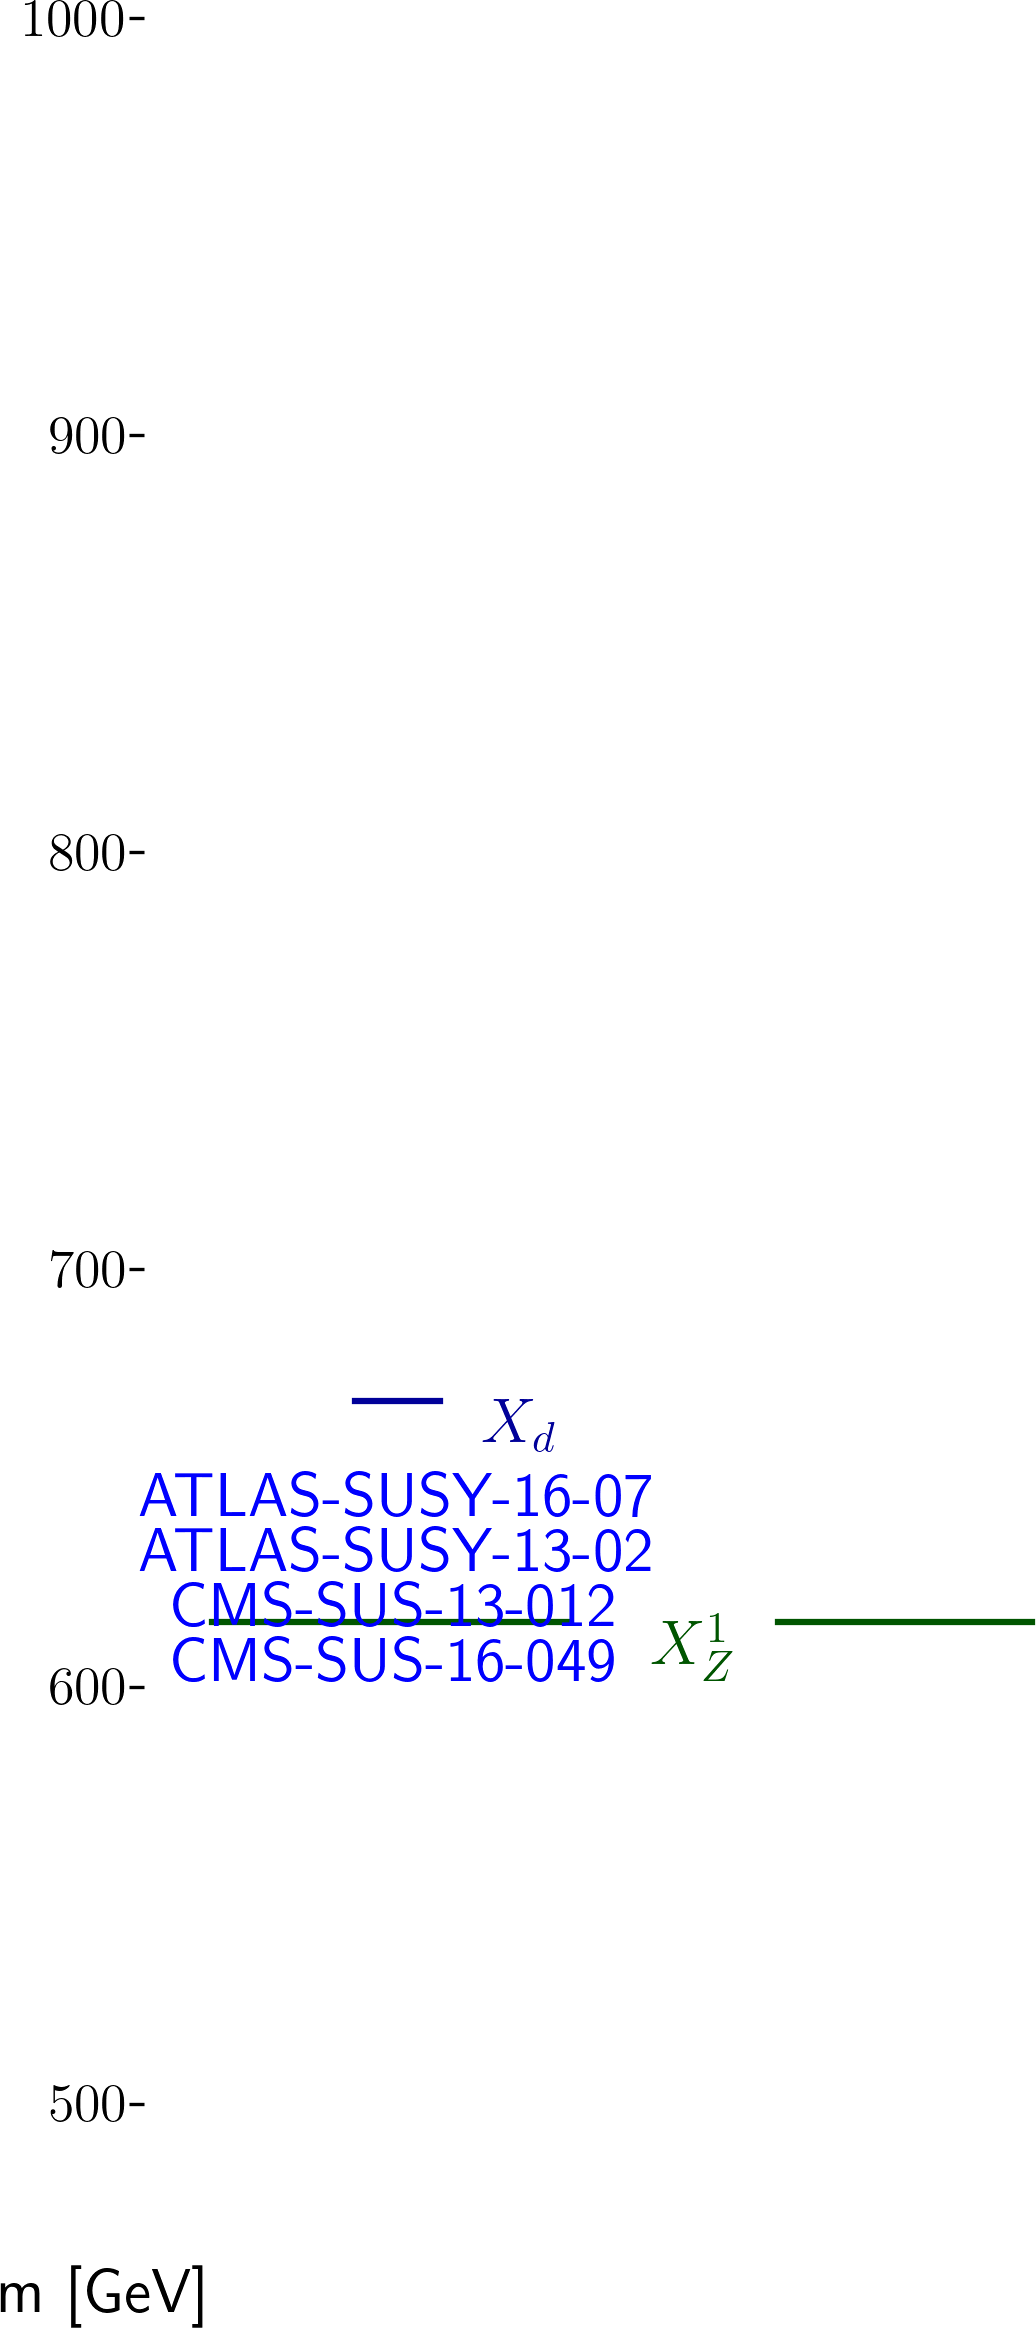
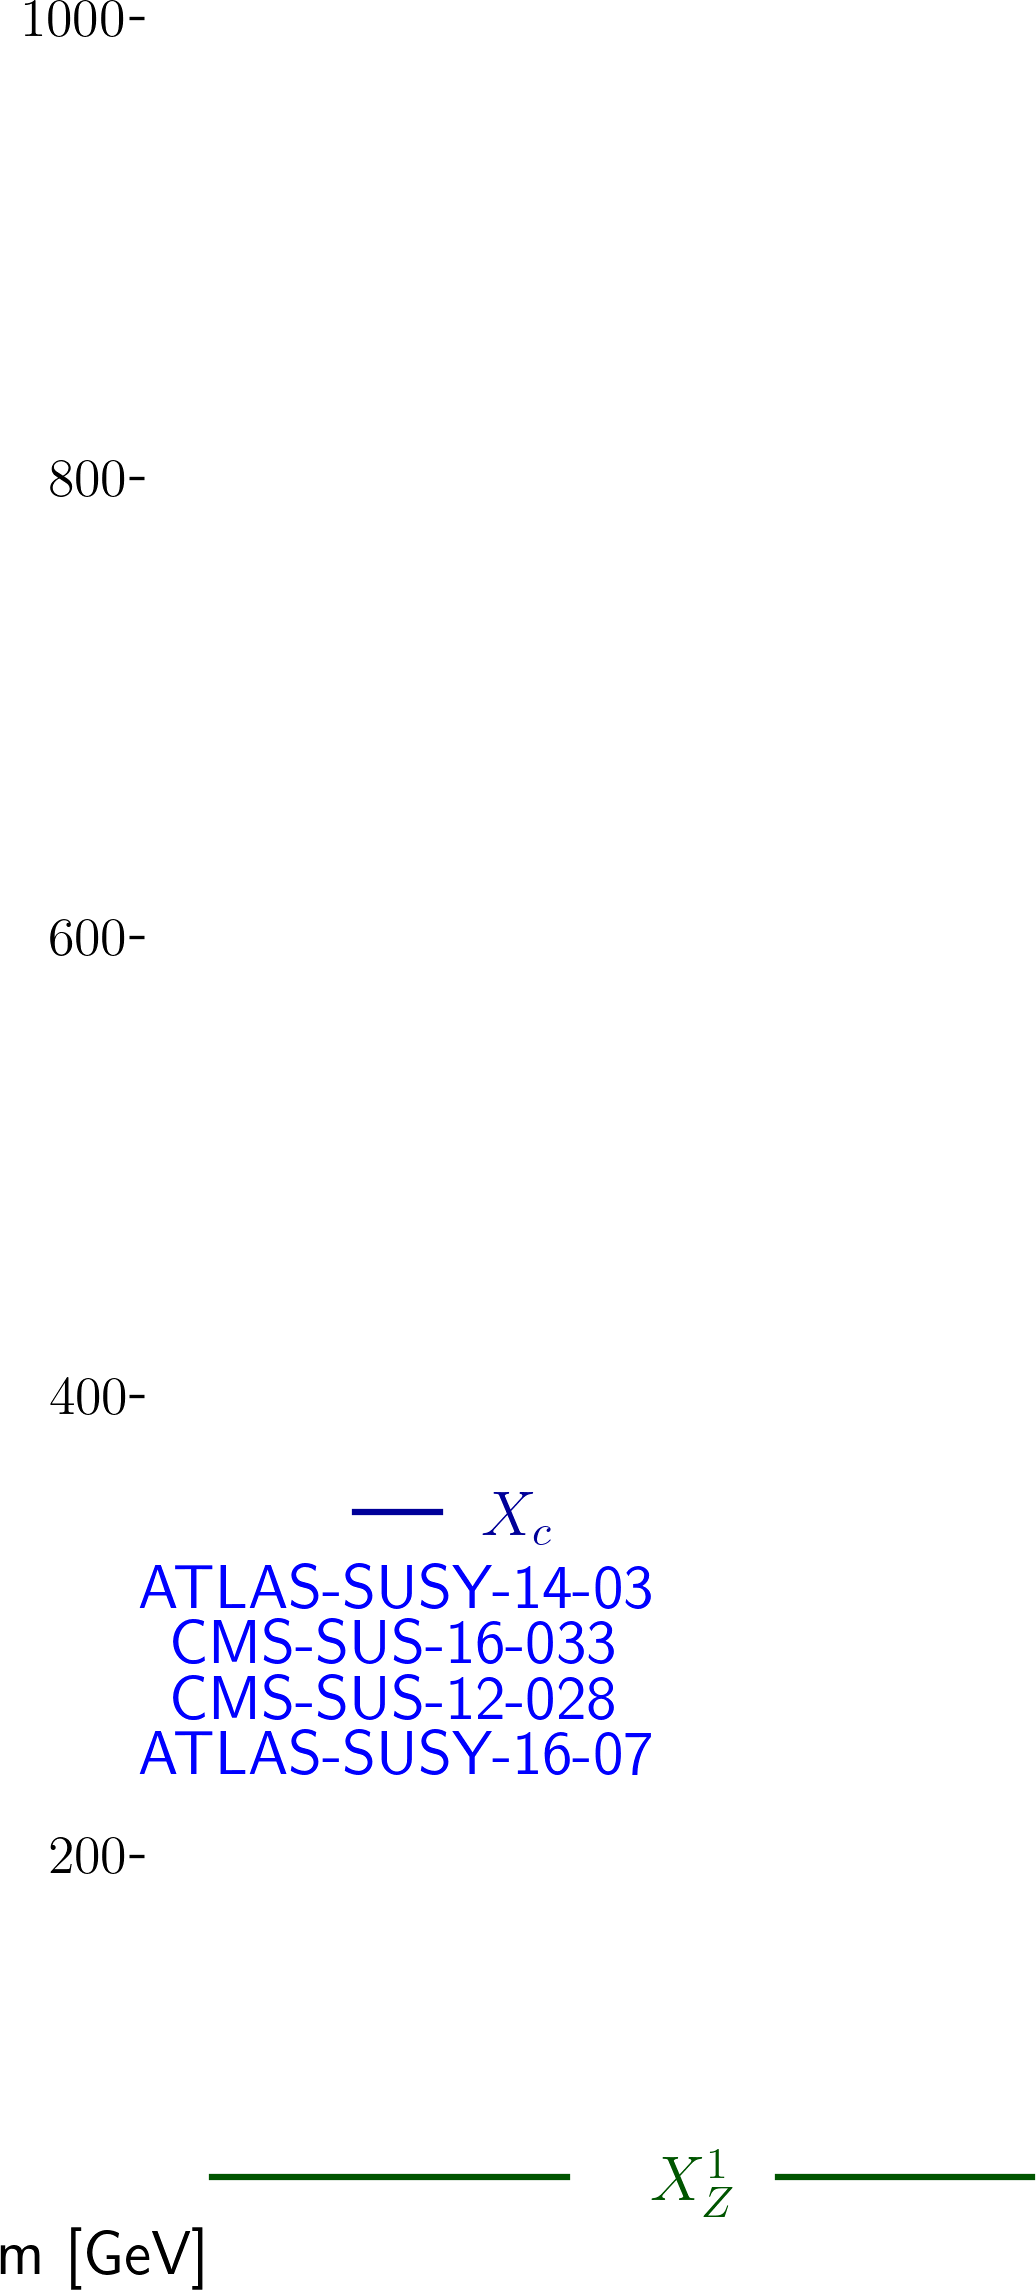
automated update by plotHiscore.py to /scratch-cbe/users/wolfgan.waltenberger/git/smodels.github.io/protomodels/latest/

diff --git a/protomodels/latest/index.html b/protomodels/latest/index.html
@@ -1,29 +1,29 @@
 <html>
 <body>
 <center>
-<table><td><h1>Current best protomodel: K=3.88</h1><td><img height=60px src=https://smodels.github.io/pics/banner.png></table>
+<table><td><h1>Current best protomodel: K=7.75</h1><td><img height=60px src=https://smodels.github.io/pics/banner.png></table>
 </center>
-<b><a href=./hiscore.slha>ProtoModel</a> <a href=./pmodel.py>(dict)</a> produced with <a href=https://smodels.github.io/docs/Validation124fake8>database v1.2.4fake8</a>, combination strategy <a href=./matrix_aggressive.png>aggressive</a> in walker 8 step 908.</b> K plots for: <a href=./M1000022.png?13649815>X<sub>Z</sub><sup>1</sup></a>, <a href=./M1000001.png?13649815>X<sub>d</sub></a>. HPD plots for: <a href=./llhd1000001.png?13649815>X<sub>d</sub></a>. SSM plots for: <br>
+<b><a href=./hiscore.slha>ProtoModel</a> <a href=./pmodel.py>(dict)</a> produced with <a href=https://smodels.github.io/docs/Validation124fake9>database v1.2.4fake9</a>, combination strategy <a href=./matrix_aggressive.png>aggressive</a> in walker 9 step 330.</b> K plots for: <a href=./M1000022.png?13650130>X<sub>Z</sub><sup>1</sup></a>, <a href=./M1000004.png?13650130>X<sub>c</sub></a>. HPD plots for: <a href=./llhd1000004.png?13650130>X<sub>c</sub></a>. SSM plots for: <br>
 <table width=80%>
 <tr><td>
-<br><b>13 predictions available. Highest r values are:</b><br><ul>
-<li><a href=https://atlas.web.cern.ch/Atlas/GROUPS/PHYSICS/PAPERS/SUSY-2013-02/>ATLAS-SUSY-2013-02</a>:T2 r=1.30, r<sub>exp</sub>=1.56<br>
-<li><a href=https://atlas.web.cern.ch/Atlas/GROUPS/PHYSICS/PAPERS/SUSY-2013-02/>ATLAS-SUSY-2013-02</a>:T2 r=0.88, r<sub>exp</sub>=N/A<br>
-<li><a href=https://twiki.cern.ch/twiki/bin/view/CMSPublic/PhysicsResultsSUS13019>CMS-SUS-13-019</a>:T2 r=0.66, r<sub>exp</sub>=N/A<br>
-<li><a href=http://cms-results.web.cern.ch/cms-results/public-results/publications/SUS-19-006/index.html>CMS-SUS-19-006</a>:T2 r=0.56, r<sub>exp</sub>=0.33<br>
-<li><a href=https://twiki.cern.ch/twiki/bin/view/CMSPublic/PhysicsResultsSUS13012>CMS-SUS-13-012</a>:T2 r=0.52, r<sub>exp</sub>=0.83<br>
+<br><b>11 predictions available. Highest r values are:</b><br><ul>
+<li><a href=https://atlas.web.cern.ch/Atlas/GROUPS/PHYSICS/PAPERS/SUSY-2014-03/>ATLAS-SUSY-2014-03</a>:TScharm r=1.30, r<sub>exp</sub>=0.78<br>
+<li><a href=http://cms-results.web.cern.ch/cms-results/public-results/publications/SUS-16-036/index.html>CMS-SUS-16-036</a>:T2 r=1.05, r<sub>exp</sub>=1.42<br>
+<li><a href=https://twiki.cern.ch/twiki/bin/view/CMSPublic/PhysicsResultsSUS13012>CMS-SUS-13-012</a>:T2 r=0.79, r<sub>exp</sub>=0.27<br>
+<li><a href=https://atlas.web.cern.ch/Atlas/GROUPS/PHYSICS/PAPERS/SUSY-2016-07/>ATLAS-SUSY-2016-07</a>:T2 r=0.69, r<sub>exp</sub>=0.81<br>
+<li><a href=http://cms-results.web.cern.ch/cms-results/public-results/publications/SUS-16-033/index.html>CMS-SUS-16-033</a>:T2 r=0.62, r<sub>exp</sub>=0.68<br>
 </ul>
 <td><br><b>K values without analyses: (contribution)</b><br>
 <ul>
-<li> <a href=https://atlas.web.cern.ch/Atlas/GROUPS/PHYSICS/PAPERS/SUSY-2013-02/>ATLAS-SUSY-2013-02</a>: -2.75 (25%)
-<li> <a href=http://cms-results.web.cern.ch/cms-results/public-results/publications/SUS-16-049/index.html>CMS-SUS-16-049</a>: -2.75 (25%)
-<li> <a href=https://twiki.cern.ch/twiki/bin/view/CMSPublic/PhysicsResultsSUS13012>CMS-SUS-13-012</a>: -2.75 (25%)
-<li> <a href=https://atlas.web.cern.ch/Atlas/GROUPS/PHYSICS/PAPERS/SUSY-2016-07/>ATLAS-SUSY-2016-07</a>: -2.75 (25%)
-<td><img width=600px src=./texdoc.png?1606649815>
-<br><font size=-1>Last updated: Sun Nov 29 12:36:55 2020</font>
+<li> <a href=http://cms-results.web.cern.ch/cms-results/public-results/publications/SUS-16-033/index.html>CMS-SUS-16-033</a>: 2.12 (21%)
+<li> <a href=https://twiki.cern.ch/twiki/bin/view/CMSPublic/PhysicsResultsSUS12028>CMS-SUS-12-028</a>: 2.06 (21%)
+<li> <a href=https://atlas.web.cern.ch/Atlas/GROUPS/PHYSICS/PAPERS/SUSY-2016-07/>ATLAS-SUSY-2016-07</a>: 1.55 (23%)
+<li> <a href=https://atlas.web.cern.ch/Atlas/GROUPS/PHYSICS/PAPERS/SUSY-2014-03/>ATLAS-SUSY-2014-03</a>: -1.81 (35%)
+<td><img width=600px src=./texdoc.png?1606650130>
+<br><font size=-1>Last updated: Sun Nov 29 12:42:10 2020</font>
 </table><table style="width:80%">
-<td width=45%><img height=580px src=./ruler.png?1606649815><td width=55%><img height=380px src=./decays.png?1606649815>
-<font size=-3><iframe type="text/html" height="220px" width="100%s" frameborder="0" src="./rawnumbers.html?1606649815"></iframe></font>
+<td width=45%><img height=580px src=./ruler.png?1606650130><td width=55%><img height=380px src=./decays.png?1606650130>
+<font size=-3><iframe type="text/html" height="220px" width="100%s" frameborder="0" src="./rawnumbers.html?1606650130"></iframe></font>
 </table>
 </body>
 </html>

diff --git a/protomodels/latest/rawnumbers.html b/protomodels/latest/rawnumbers.html
@@ -1,8 +1,8 @@
 <table>
 <tr><th>Analysis Name</th><th>Type</th><th>Dataset</th><th>Topos</th><th>Observed</th><th>Expected</th><th>Approx &sigma;</th><th>Particles</th>
 </tr>
-<tr><td><a href=https://atlas.web.cern.ch/Atlas/GROUPS/PHYSICS/PAPERS/SUSY-2013-02/>ATLAS-SUSY-2013-02</a></td><td>em</td> <td>SR6jtp</td><td>T2</td><td>4</td><td>4.9 +/- 1.6</td><td style="text-align:right">-0.3 &sigma;</td><td style="text-align:right">X<sub>d</sub></td></tr>
-<tr><td><a href=https://atlas.web.cern.ch/Atlas/GROUPS/PHYSICS/PAPERS/SUSY-2016-07/>ATLAS-SUSY-2016-07</a></td><td>em</td> <td>2j_Meff_1200</td><td>T2</td><td>528</td><td>526 +/- 31</td><td style="text-align:right">0.1 &sigma;</td><td style="text-align:right">X<sub>d</sub></td></tr>
-<tr><td><a href=https://twiki.cern.ch/twiki/bin/view/CMSPublic/PhysicsResultsSUS13012>CMS-SUS-13-012</a></td><td>ul</td> <td>-</td><td>T2</td><td> 1270.3 fb </td><td> 589.5 fb</td><td style="text-align:right">2.3 &sigma;</td><td style="text-align:right">X<sub>d</sub></td></tr>
-<tr><td><a href=http://cms-results.web.cern.ch/cms-results/public-results/publications/SUS-16-049/index.html>CMS-SUS-16-049</a></td><td>ul</td> <td>-</td><td>T2cc</td><td> 485.9 fb </td><td> 280.8 fb</td><td style="text-align:right">1.4 &sigma;</td><td style="text-align:right">X<sub>d</sub></td></tr>
+<tr><td><a href=https://atlas.web.cern.ch/Atlas/GROUPS/PHYSICS/PAPERS/SUSY-2014-03/>ATLAS-SUSY-2014-03</a></td><td>em</td> <td>mCT200</td><td>TScharm</td><td>27</td><td>16 +/- 3</td><td style="text-align:right">2.2 &sigma;</td><td style="text-align:right">X<sub>c</sub></td></tr>
+<tr><td><a href=https://atlas.web.cern.ch/Atlas/GROUPS/PHYSICS/PAPERS/SUSY-2016-07/>ATLAS-SUSY-2016-07</a></td><td>em</td> <td>2j_Meff_1200</td><td>T2</td><td>554</td><td>526 +/- 31</td><td style="text-align:right">0.7 &sigma;</td><td style="text-align:right">X<sub>c</sub></td></tr>
+<tr><td><a href=https://twiki.cern.ch/twiki/bin/view/CMSPublic/PhysicsResultsSUS12028>CMS-SUS-12-028</a></td><td>ul</td> <td>-</td><td>T2</td><td> 935.1 fb </td><td> 710.0 fb</td><td style="text-align:right">0.6 &sigma;</td><td style="text-align:right">X<sub>c</sub></td></tr>
+<tr><td><a href=http://cms-results.web.cern.ch/cms-results/public-results/publications/SUS-16-033/index.html>CMS-SUS-16-033</a></td><td>ul</td> <td>-</td><td>T2</td><td> 1325.2 fb </td><td> 671.1 fb</td><td style="text-align:right">1.9 &sigma;</td><td style="text-align:right">X<sub>c</sub></td></tr>
 </table>

diff --git a/protomodels/latest/pmodel.py b/protomodels/latest/pmodel.py
@@ -1,1 +1,1 @@
-{'masses': {1000022: 605.507, 1000001: 658.394}, 'ssmultipliers': {(1000022, 1000022): 0.0, (1000001, 1000001): 190546.99, (-1000001, 1000001): 0.768, (-1000001, -1000001): 77030.213, (1000001, 1000022): 0.0, (-1000001, 1000022): 169213.628}, 'decays': {1000022: {}, 1000001: {(1000022, 1): 1.0}}, 'timestamp': 'Sun Nov 29 12:36:47 2020', 'Z': 2.574, 'K': 3.878, 'walkerid': 8, 'step': 908, 'codever': '1.0', 'dbver': '1.2.4fake8'}
+{'masses': {1000022: 49.978, 1000004: 339.455}, 'ssmultipliers': {(1000022, 1000022): 0.176, (1000004, 1000004): 3285.218, (-1000004, 1000004): 0.181, (-1000004, -1000004): 3285.218, (1000004, 1000022): 0.174, (-1000004, 1000022): 0.174}, 'decays': {1000022: {}, 1000004: {(1000022, 4): 1.0}}, 'timestamp': 'Sun Nov 29 12:42:01 2020', 'Z': 3.123, 'K': 7.753, 'walkerid': 9, 'step': 330, 'codever': '1.0', 'dbver': '1.2.4fake9'}
